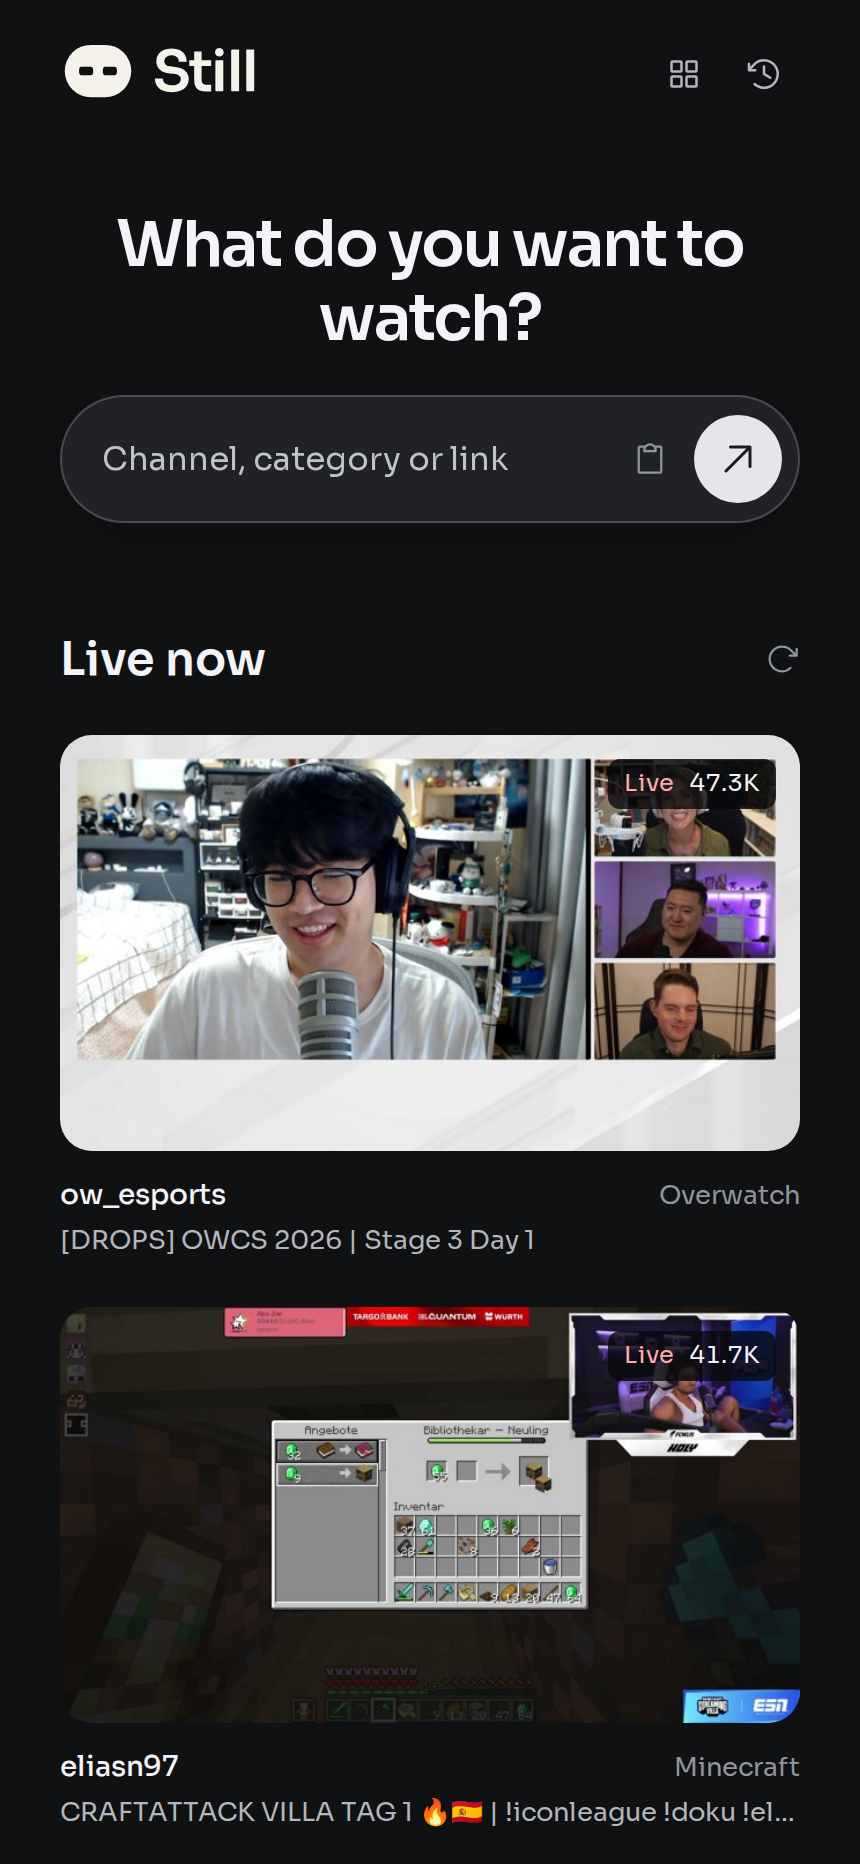
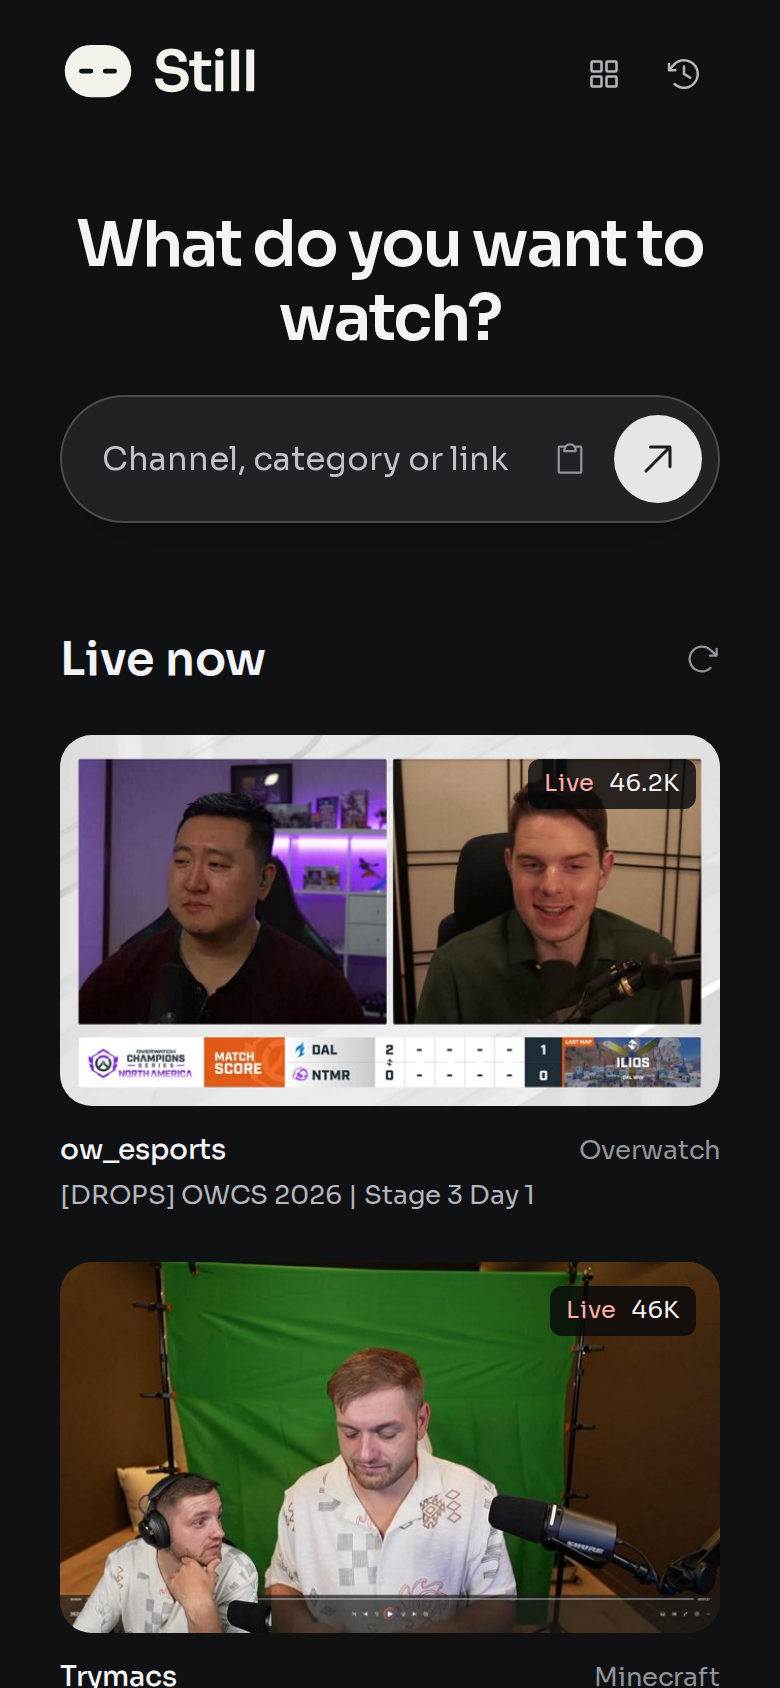
docs(still): refresh README screenshots and add a mobile composition
Recapture the desktop scenes at a 1920x1080 viewport, add mobile captures of the player and categories, and render a fourth composition for the README.

diff --git a/docs/screenshots/still/render_mockups.py b/docs/screenshots/still/render_mockups.py
@@ -25,11 +25,11 @@ def sora_path():
 
 
 def title(canvas, text, font_path):
-    face = ImageFont.truetype(str(font_path), 112)
+    face = ImageFont.truetype(str(font_path), 82)
     face.set_variation_by_axes([600])
     draw = ImageDraw.Draw(canvas)
     length = draw.textlength(text, font=face)
-    draw.text(((canvas.width - length) / 2, 122), text, fill=TEXT, font=face,
+    draw.text(((canvas.width - length) / 2, 62), text, fill=TEXT, font=face,
               stroke_width=0)
 
 
@@ -47,10 +47,9 @@ def shadow(canvas, box, radius):
     canvas.alpha_composite(layer.filter(ImageFilter.GaussianBlur(55)))
 
 
-def screen(canvas, source, x, y, width, crop_height=None):
+def screen(canvas, source, x, y, width):
     capture = Image.open(ROOT / 'raw' / source).convert('RGB')
-    if crop_height:
-        capture = capture.crop((0, 0, capture.width, crop_height))
+    assert capture.width * 9 == capture.height * 16, 'Desktop captures must retain a 16:9 viewport'
     height = round(capture.height * width / capture.width)
     capture = capture.resize((width, height), Image.Resampling.LANCZOS)
     bezel = 8
@@ -62,8 +61,8 @@ def screen(canvas, source, x, y, width, crop_height=None):
     ImageDraw.Draw(canvas).rounded_rectangle(box, radius=36, outline=BORDER, width=2)
 
 
-def phone(canvas, x, y, width=580):
-    capture = Image.open(ROOT / 'raw/home-mobile.png').convert('RGB')
+def phone(canvas, x, y, width=580, source="home-mobile.png"):
+    capture = Image.open(ROOT / 'raw' / source).convert('RGB')
     height = round(capture.height * width / capture.width)
     capture = capture.resize((width, height), Image.Resampling.LANCZOS)
     # A quiet black device bezel, without fake status bars or browser controls.
@@ -92,21 +91,28 @@ def main():
         face.flavor = None
         face.save(path)
 
-        hero = canvas((3200, 2100))
+        hero = canvas((3200, 1800))
         title(hero, 'Watch on your terms', path)
-        screen(hero, 'player-desktop.png', 192, 375, 2800)
+        screen(hero, 'player-desktop.png', 342, 230, 2500)
         save(hero, 'still-player.webp')
 
-        discovery = canvas((3600, 2200))
+        discovery = canvas((3200, 1800))
         title(discovery, 'Find your next stream', path)
-        screen(discovery, 'home-desktop.png', 144, 520, 2740, crop_height=1430)
-        phone(discovery, 2810, 430, 660)
+        screen(discovery, 'home-desktop.png', 110, 230, 2540)
+        phone(discovery, 2565, 545, 500)
         save(discovery, 'still-discovery.webp')
 
-        categories = canvas((3200, 2380))
+        categories = canvas((3200, 1800))
         title(categories, 'Explore what is live', path)
-        screen(categories, 'categories-desktop.png', 192, 375, 2800)
+        screen(categories, 'categories-desktop.png', 342, 230, 2500)
         save(categories, 'still-categories.webp')
+
+        mobile = canvas((3200, 1800))
+        title(mobile, 'Still wherever you watch', path)
+        for x, source in [(350, 'home-mobile.png'), (1270, 'player-mobile.png'),
+                          (2190, 'categories-mobile.png')]:
+            phone(mobile, x, 230, 600, source)
+        save(mobile, 'still-mobile.webp')
 
 
 if __name__ == '__main__':

diff --git a/docs/screenshots/still/README.md b/docs/screenshots/still/README.md
@@ -1,32 +1,39 @@
 # Still README artwork
 
-Screens of the real local Still app, captured on 2026-10-11. Stream titles,
-viewer counts, thumbnails and chat reflect the capture time. Twitch and
-broadcaster artwork retain their respective ownership.
+Fresh captures of the local Still app on 2026-10-11. Stream titles, viewer
+counts, thumbnails and chat reflect the capture time. Twitch and broadcaster
+artwork retain their respective ownership.
 
-The compositions use Still's media tokens: `#191b1e` for the canvas,
-`#101113` for frames, `#33363b` for edges, and `#f4f4f8` for text. Headlines
-use the app's actual Sora font at weight 600. There are no eyebrow labels,
-headline punctuation, invented browser controls, or status bars.
+All desktop scenes use a standard **1920 × 1080 (16:9) viewport**, exported at
+2× to **3840 × 2160**. All four finished compositions are **3200 × 1800 (16:9)**.
+The complete desktop viewport is retained and scaled uniformly; the composition
+script rejects desktop sources with a different aspect ratio. Mobile uses a
+390 × 844 viewport captured directly at 2×.
 
 | Source | Route | Saved PNG |
 | --- | --- | --- |
-| `raw/player-desktop.png` | `/ow_esports` | 2880 × 1520 |
-| `raw/home-desktop.png` | `/` | 2880 × 1500 |
-| `raw/home-mobile.png` | `/` | 860 × 1864 |
-| `raw/categories-desktop.png` | `/categories` | 2880 × 1760 |
+| `raw/player-desktop.png` | `/ow_esports` | 3840 × 2160 |
+| `raw/home-desktop.png` | `/` | 3840 × 2160 |
+| `raw/categories-desktop.png` | `/categories` | 3840 × 2160 |
+| `raw/home-mobile.png` | `/` | 780 × 1688 |
+| `raw/player-mobile.png` | `/ow_esports` | 780 × 1688 |
+| `raw/categories-mobile.png` | `/categories` | 780 × 1688 |
 
-Desktop captures freeze the rendered DOM, its actual CSS, loaded Sora font,
-images, and (for playback) the current decoded video frame. T3's HTML renderer
-exports the frozen page at 2× in two adjacent tiles, joined without rescaling.
-Scripts, developer tools and content outside the captured area are omitted.
-This preserves crisp UI text and controls rather than enlarging a smaller
-screenshot. Video and thumbnails keep their upstream source resolution. Mobile
-was captured directly at 2× with the collaborative browser.
+Desktop exports freeze the rendered DOM, current media frame, active CSS media
+queries and viewport units at the actual capture dimensions. T3's HTML renderer
+exports three adjacent 1280 × 2160 tiles, which are joined without rescaling.
+The app's 16px root size, Sora and JetBrains Mono are explicitly preserved so
+conversation theme defaults cannot change the interface's spacing or typography.
+Capture checks verify loaded Sora faces, computed font family, root size, and
+viewport geometry. The home search remains 896px wide and its heading 56px,
+matching the live app at this viewport. The player uses a decoded 1080p frame.
+Scripts, developer controls, and content wholly outside the viewport are omitted.
 
-The finished WebP files add minimal rounded frames and neutral shadows.
-Screens are cropped to complete content rows and downsampled to fit the
-composition. The original captures remain in `raw/`.
+The compositions use Still's media tokens: `#191b1e` for the canvas,
+`#101113` for frames, `#33363b` for edges, and `#f4f4f8` for text. Headlines
+use Sora at weight 600, without eyebrow labels or headline punctuation. Frames
+and neutral shadows sit outside the captured interface. There are no invented
+browser controls or status bars.
 
 To rebuild the compositions, start Still once to populate its Next font cache,
 then install Python's `Pillow` and `fonttools[woff]` packages and run:
@@ -35,6 +42,5 @@ then install Python's `Pillow` and `fonttools[woff]` packages and run:
 python3 docs/screenshots/still/render_mockups.py
 ```
 
-Outputs are `still-player.webp` (3200 × 2100), `still-discovery.webp`
-(3600 × 2200), and `still-categories.webp` (3200 × 2380). Both READMEs use
-relative links to these shared assets.
+Outputs are `still-player.webp`, `still-discovery.webp`, `still-categories.webp`,
+and `still-mobile.webp`. Both READMEs use relative links to these shared assets.

diff --git a/apps/still/README.md b/apps/still/README.md
@@ -26,6 +26,8 @@ video or clip link; no account, extension, or installation is required.
 
 ![Still's category directory with artwork and live streams grouped by category](../../docs/screenshots/still/still-categories.webp)
 
+![Still's discovery, live player, and category directory on mobile](../../docs/screenshots/still/still-mobile.webp)
+
 Source media must still be available: Still cannot restore deleted
 videos, and archive-based rewind depends on the channel and Twitch. Media and
 chat use third-party services. Cloudflare observability is currently enabled
